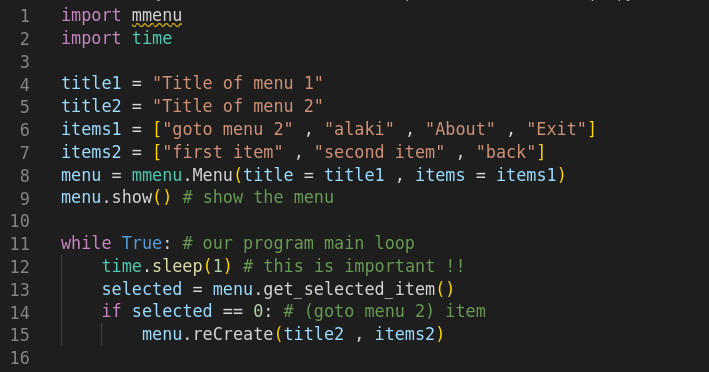
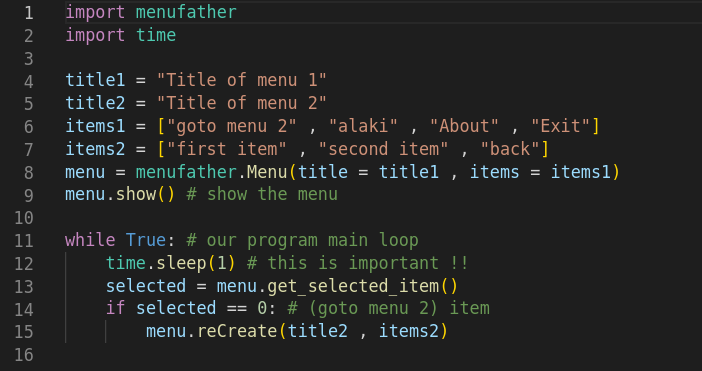
ahh ... change names from mmenu to menufather

diff --git a/Examples/reCreate_example.py b/Examples/reCreate_example.py
@@ -1,11 +1,11 @@
-import mmenu
+import menufather
 import time
 
 title1 = "Title of menu 1"
 title2 = "Title of menu 2"
 items1 = ["goto menu 2" , "alaki" , "About" , "Exit"]
 items2 = ["first item" , "second item" , "back"]
-menu = mmenu.Menu(title = title1 , items = items1)
+menu = menufather.Menu(title = title1 , items = items1)
 menu.show() # show the menu
 
 while True: # our program main loop

diff --git a/Examples/too_many_items.py b/Examples/too_many_items.py
@@ -1,4 +1,4 @@
-import mmenu
+import menufather
 import time
 
 title = "Title of menu"
@@ -6,7 +6,7 @@ items = []
 for i in range(1,101):
     items.append("Item {}".format(i))
 
-menu = mmenu.Menu(title = title , items = items)
+menu = menufather.Menu(title = title , items = items)
 menu.show() # show the menu
 
 while True: # our program main loop

diff --git a/Examples/first_menu.py b/Examples/first_menu.py
@@ -1,9 +1,9 @@
-import mmenu
+import menufather
 import time
 
 title = "Title of menu"
 items = ["First Button" , "Second Button" , "About" , "Exit"]
-menu = mmenu.Menu(title = title , items = items)
+menu = menufather.Menu(title = title , items = items)
 menu.show() # show the menu
 
 while True: # our program main loop
